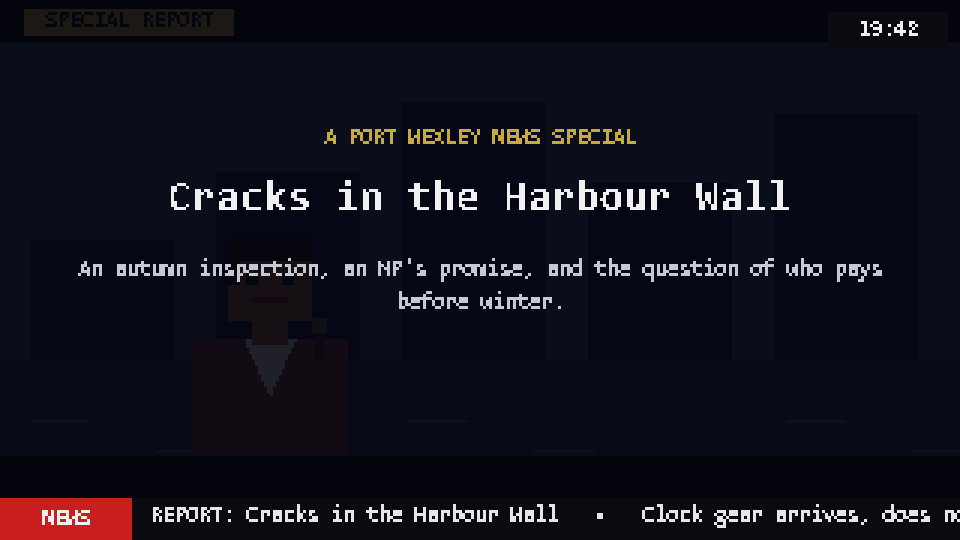
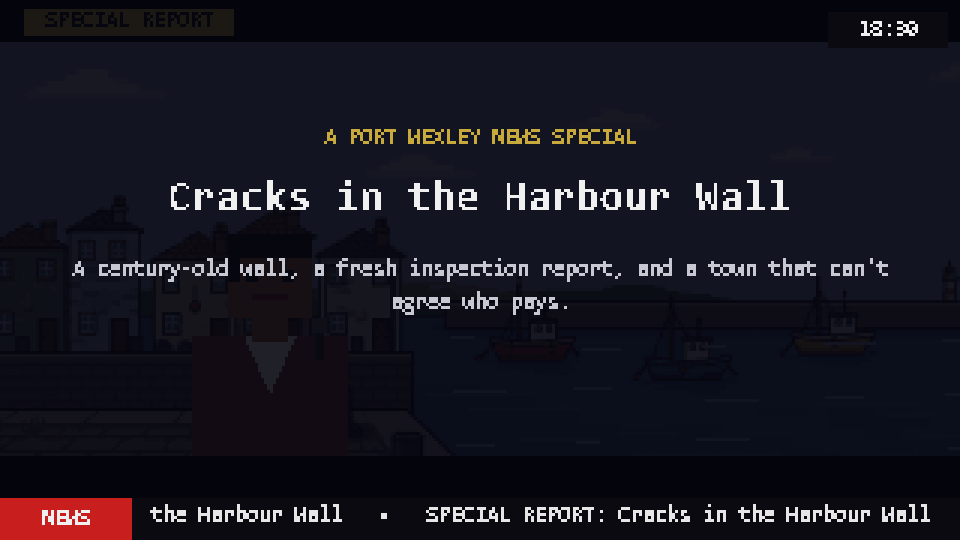
README: fresh screenshots with the new backdrop art and studio shots
Re-shot every scene with the pixel-art backdrops, and added the close-up, the
big-picture wall handover, a night-in-the-rain field report, and a strip of six
locations in different light and weather. The text now describes the backdrop
system, and locations.py and backdrops.py are added to the layout table.

Changed region(s): [[0.0625, 0.4741, 0.9375, 0.5926], [0.1562, 0.9185, 1.0, 0.9778], [0.9062, 0.0296, 0.9688, 0.0593]]

diff --git a/README.md b/README.md
@@ -15,12 +15,17 @@ town's archive so tomorrow's bulletin can say "as we reported on Tuesday".
 
 | | |
 |---|---|
-| ![Weather](docs/screenshots/weather.png) | ![Studio bulletin](docs/screenshots/studio.png) |
-| Gordon Pell and the weather map | Dana Ferris reads the bulletin |
-| ![Field report](docs/screenshots/field.png) | ![Special report title card](docs/screenshots/special_title_card.png) |
-| Miles Okafor live from the cannery | A special report opens |
-| ![Special report guest](docs/screenshots/special_guest.png) | ![Filler](docs/screenshots/filler.png) |
-| The harbourmaster, interviewed on location | Filler card while the buffer refills |
+| ![Studio bulletin](docs/screenshots/studio.png) | ![Close-up](docs/screenshots/closeup.png) |
+| Dana Ferris reads the bulletin | …and the close-up on the next line |
+| ![Big-picture wall](docs/screenshots/wall.png) | ![Field report](docs/screenshots/field.png) |
+| Handing over to a live report at the loading dock | Miles Okafor live from the old cannery at dusk |
+| ![Night in the rain](docs/screenshots/night.png) | ![Weather](docs/screenshots/weather.png) |
+| Town Hall at night, graded for the last weather report | Gordon Pell and the weather map |
+| ![Special report title card](docs/screenshots/special_title_card.png) | ![Special report guest](docs/screenshots/special_guest.png) |
+| A special report opens | The harbourmaster, interviewed at the lifeboat station |
+
+![Six of the 26 locations](docs/screenshots/locations.png)
+*Six of the 26 locations, at the time of day and in the weather the broadcast is having.*
 
 ## How it works
 
@@ -46,8 +51,13 @@ The one rule the whole design hangs on: **the broadcast never waits on the AI.**
   development; the editor occasionally commissions a special, which is written
   in resumable stages that interleave with live work.
 - **Scenes** are drawn on a 320×180 canvas and scaled up with nearest
-  neighbour, which is where the pixel look comes from. The sprites are
-  placeholders drawn in code.
+  neighbour, which is where the pixel look comes from. Writers choose from 24
+  locations (Port Wexley and its countryside) and the studio has its own sets.
+  Each is hand-checked pixel art (`assets/backdrops/`, made with ComfyUI),
+  graded in code for day, dusk or night and for the last weather report, with
+  rain, snow, fog and water animated on top. Bulletins cut between a wide shot
+  and a close-up, and the anchor hands over to reports from a big-picture
+  wall. The people are still placeholders drawn in code.
 
 Model routing is config-driven. Any OpenAI-compatible endpoint works (LM
 Studio and llama.cpp locally, Moonshot's Kimi in the cloud), plus the Anthropic
@@ -59,7 +69,8 @@ editor, the story desk and specials.
 Early and working. The longest run so far is a ten-minute soak with zero
 filler and frame times under 7 ms; it has not yet been left on overnight.
 Things that exist: the four live segment types, special reports, the story
-bible and desk, provider switching, caching, failure recovery. Things that
+bible and desk, provider switching, caching, failure recovery, and backdrop art
+for every location. Things that
 don't yet: a 24-hour schedule with day-parts, breaking-news interrupts, local
 adverts and tides, real sprite art, and the 30-minute documentary that
 specials are the template for.
@@ -154,6 +165,8 @@ uv run python -m newsroom.special make --thread t002           # write one for a
 | `producer.py` | plans slots ahead, retimes when real durations land |
 | `workers.py` | generation thread, content cache, watchdog, idle editorial work |
 | `player.py` | consumes the buffer, drives audio, applies timed cues, builds the `View` |
+| `locations.py` | the places a picture can be set, and where people stand on the studio sets |
+| `backdrops.py` | backdrop art or placeholder, time-of-day and weather grading, animated touches |
 | `scenes.py` / `sprites.py` | draws the `View` on a 320×180 canvas scaled up |
 
 ## Dev commands
@@ -165,6 +178,7 @@ uv run python -m newsroom.llm weather                  # live call to the routed
 uv run python -m newsroom.world                        # print the writers' briefing
 uv run python -m newsroom.workers field_report         # one segment end to end
 uv run python -m newsroom --no-window --minutes 3      # headless soak
+uv run python -m newsroom.backdrops --sheet sheet.png  # every backdrop at day, dusk and night
 ```
 
 Generated audio and segment JSON live in `data/cache/`, keyed by (type, date,
